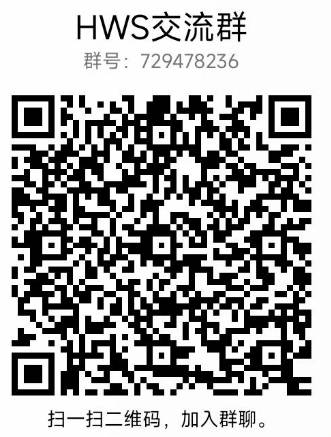
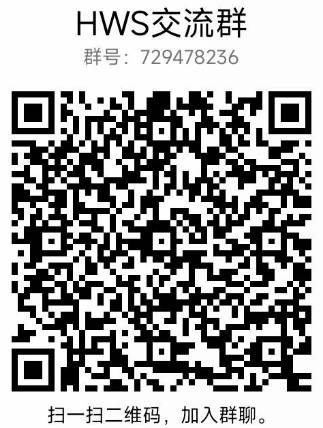
backup

diff --git a/content/contact/_index.md b/content/contact/_index.md
@@ -1,0 +1,14 @@
+---
+title: Join QQ group for further information
+
+# Files in this folder represent a Widget Page (homepage)
+type: widget_page
+
+# Homepage is headless, other widget pages are not.
+headless: true
+---
+
+
+群号：729478236
+
+![](qq.jpg)
